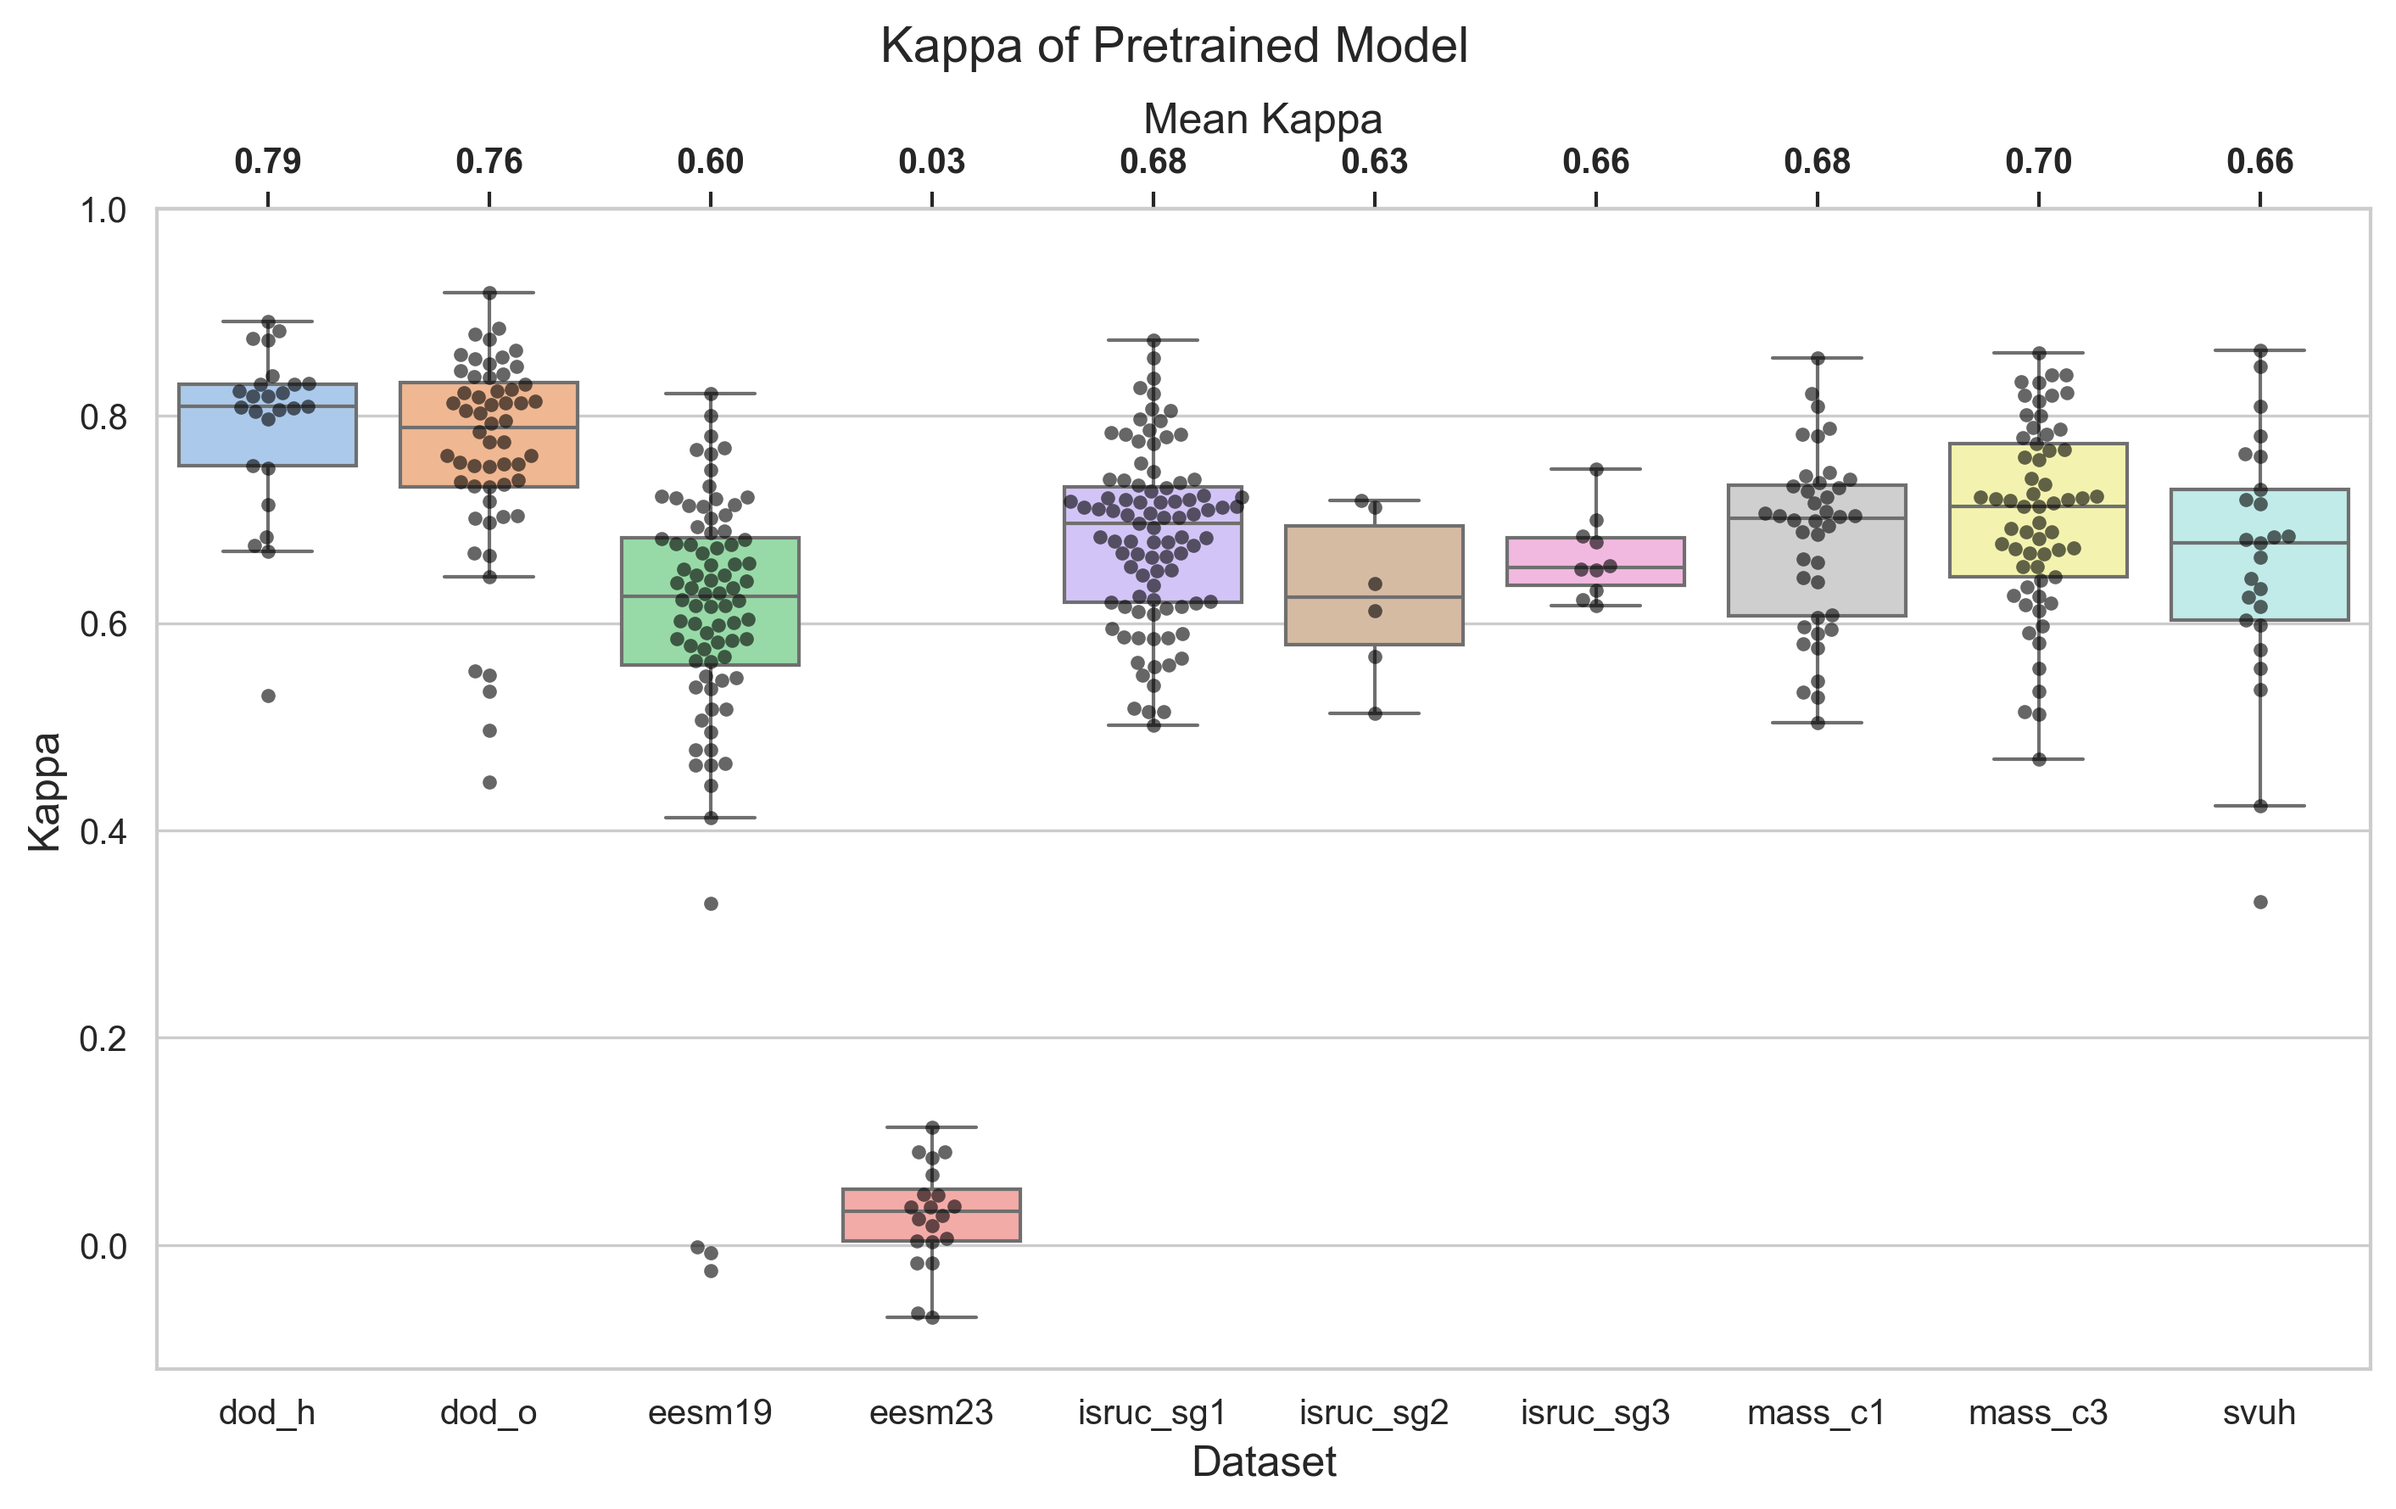
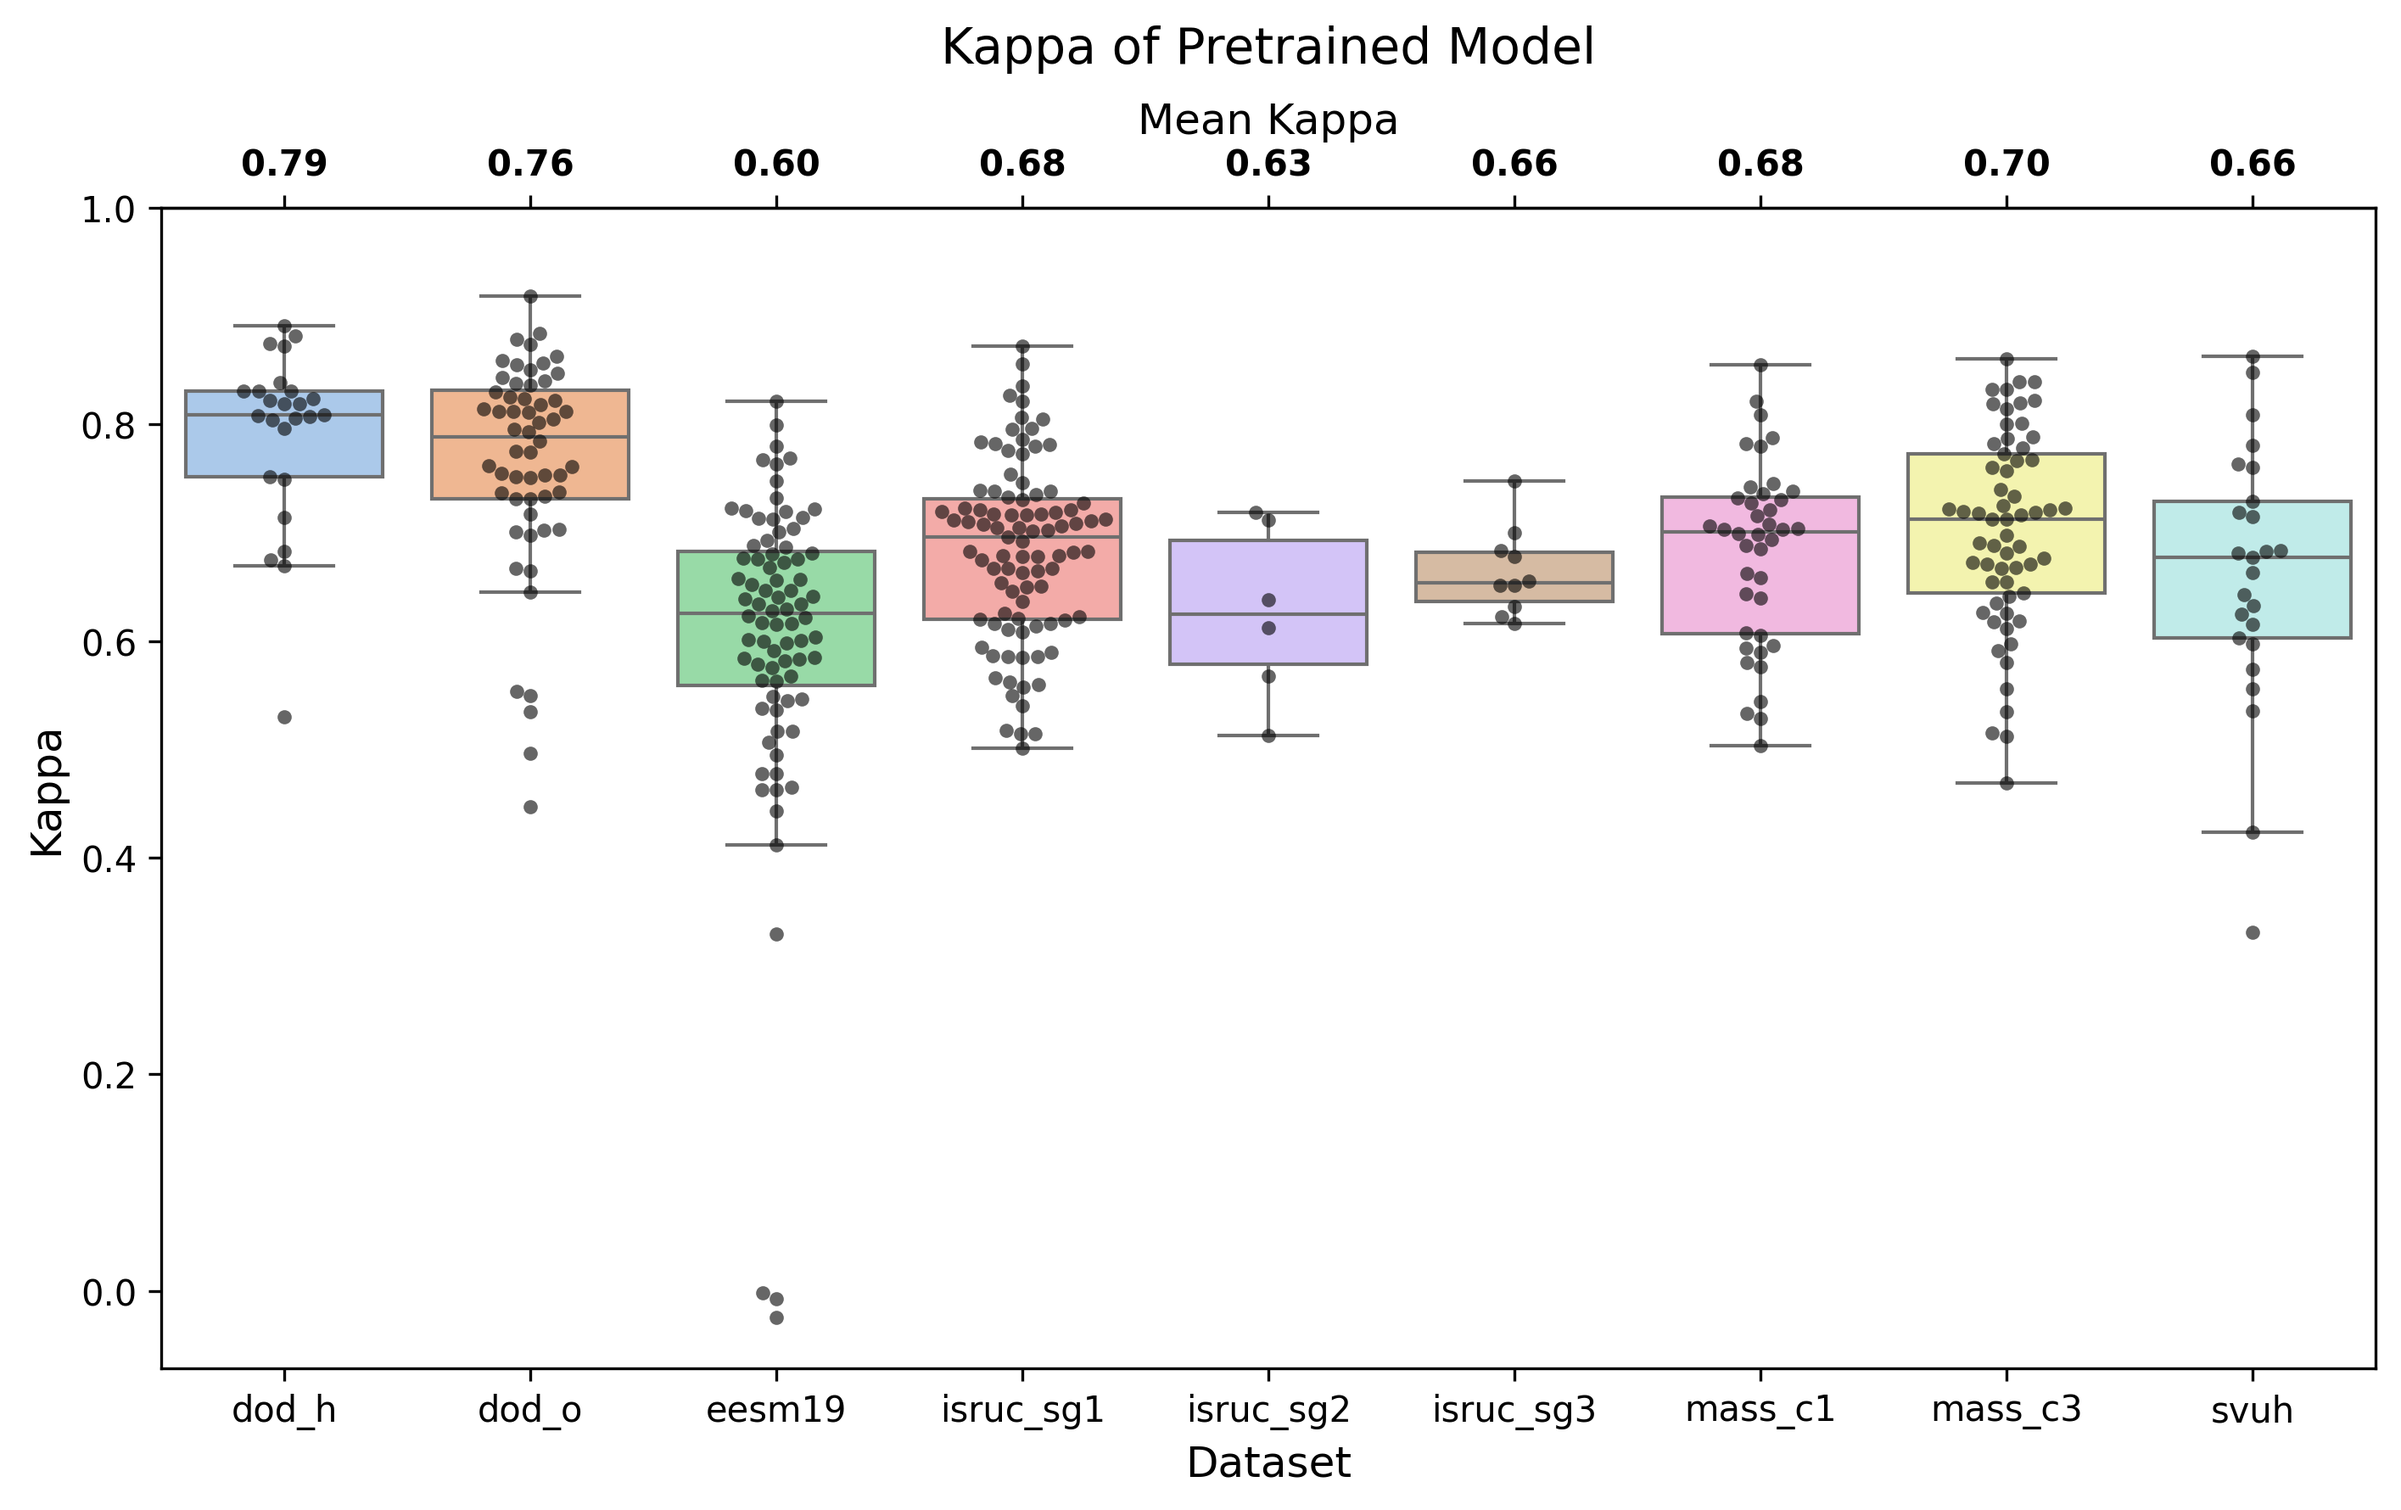
removed eesm23 from data

diff --git a/src/plot/pretrained_kappa.py b/src/plot/pretrained_kappa.py
@@ -26,6 +26,7 @@ def _get_pretrained_kappa_data() -> pl.DataFrame:
     concat: pl.DataFrame = pl.concat(dfs, how="vertical")
     single_org = concat.unique(["record", "dataset"], keep="any")
     result = single_org.select("dataset", "record", "kappa")
+    # result = result.with_columns(pl.col("dataset").str.to_uppercase())
     return result.sort("dataset")
 
 
@@ -59,11 +60,14 @@ def _plot_pretrained_kappa_performance(data: pl.DataFrame, show: bool = False) -
         order=dataset_order,
     )
 
-    plt.suptitle("Kappa of Pretrained Model", size=14)
+    bbox_right = 0.97
+    bbox_left = 0.1
+    center = (bbox_left + bbox_right) / 2
+    plt.subplots_adjust(left=bbox_left, right=bbox_right, top=0.86, bottom=0.1)
+    plt.suptitle("Kappa of Pretrained Model", size=14, x=center, ha="center")
     plt.xlabel("Dataset", fontsize=12)
     plt.ylabel("Kappa", fontsize=12)
     plt.ylim(top=1)
-    plt.subplots_adjust(left=0.1, right=0.97, top=0.86, bottom=0.1)
 
     ax.set_xticklabels(ax.get_xticklabels(), fontsize=10)
     ax.set_yticklabels(ax.get_yticklabels(), fontsize=10)
@@ -88,5 +92,5 @@ def _plot_pretrained_kappa_performance(data: pl.DataFrame, show: bool = False) -
 
 
 if __name__ == "__main__":
-    plot_pretrained_kappa_performance(show=True)
+    plot_pretrained_kappa_performance()
     pass
